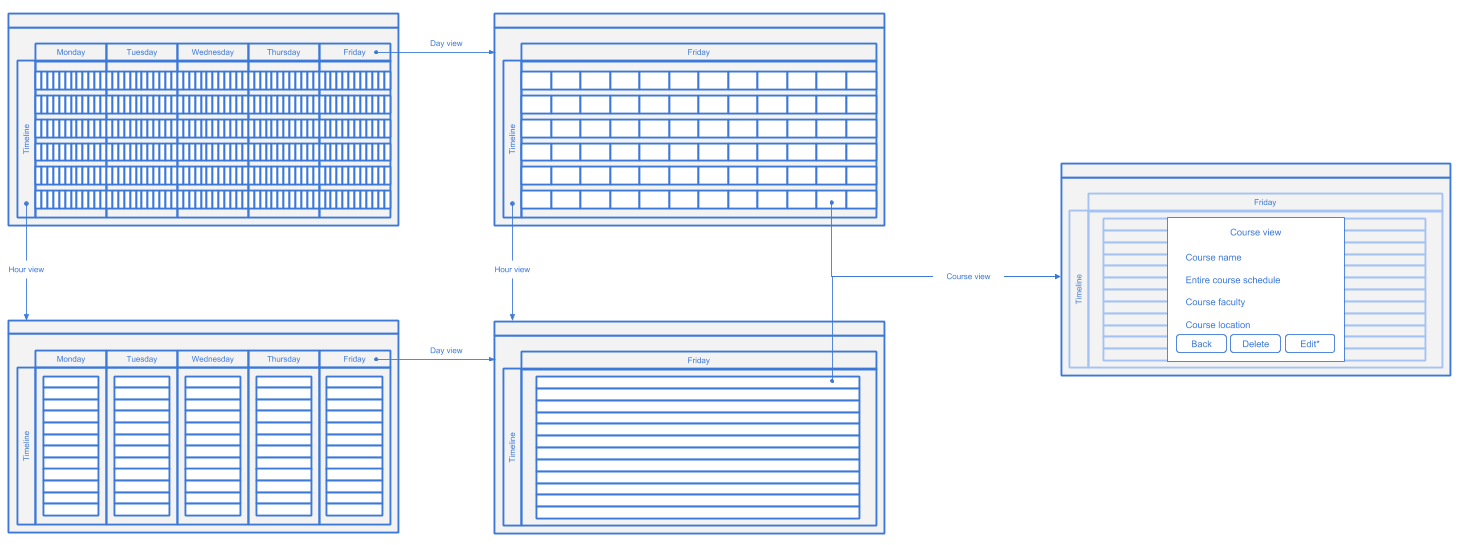
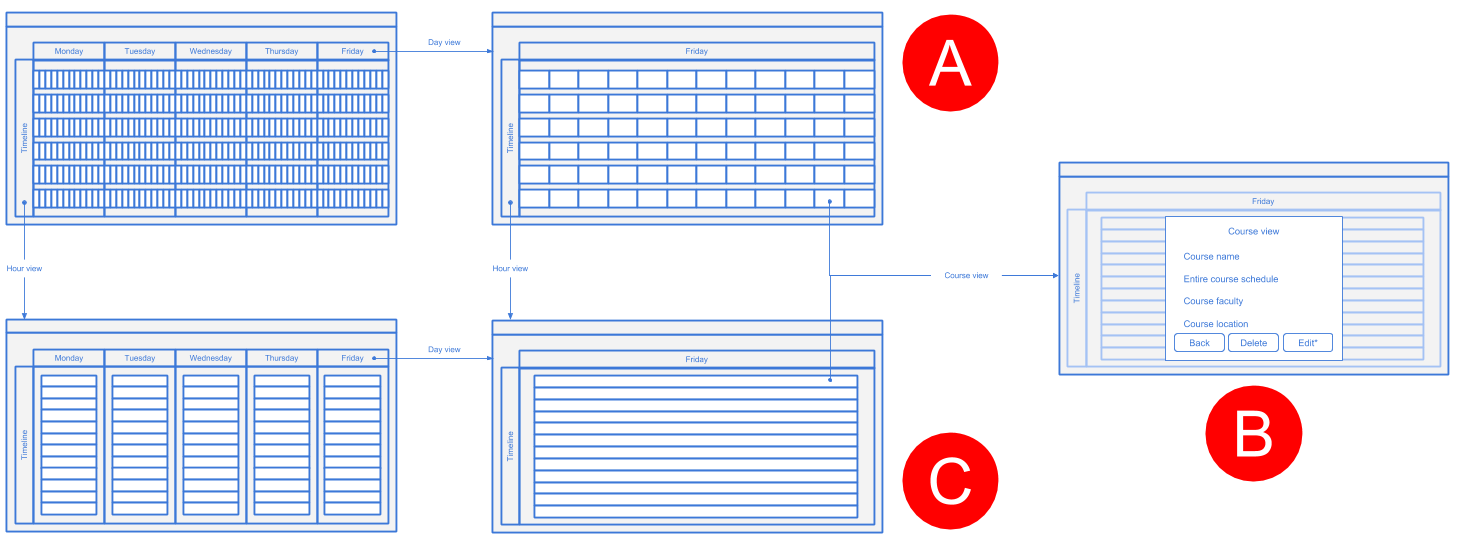
Add files via upload

diff --git a/evaluation/SEAS-coursePlanner/index.html b/evaluation/SEAS-coursePlanner/index.html
@@ -73,7 +73,7 @@
             </ul>
             <span class="navbar-text ml-auto">
                 <small>
-                    Last update: 2018-11-06
+                    Last update: 2018-11-07
                 </small>
             </span>
         </div>
@@ -172,8 +172,6 @@
           </div>
         </div>
       </section><!-- / Overview -->
-
-
 
       <!-- SEAS Course Planning - Features -->
       <section id="coursePlanner" class="bg-light">
@@ -716,7 +714,6 @@
         </div>
       </section><!-- / Mobile -->
 
-
       <!-- Recommendations -->
       <section id="coursePlanneraRecomendation" class="bg-light">
         <div class="container-fluid">
@@ -909,7 +906,7 @@
 
             <div class="col-lg-3">
               Usability recommendations
-              <ul>
+              <ol type="A">
                   <li>
                       Intuitive week, day, hour and course details view
                   </li>
@@ -919,7 +916,7 @@
                   <li>
                       Day or hour view allow for the display of additional course details
                   </li>
-              </ul>
+              </ol>
             </div>
             <div class="col-lg-9 img-hover">
               <a href="wireframeFlow-coursePlanner_proposed.png" target="_blank" title="Select to open full size image in a new tab">
